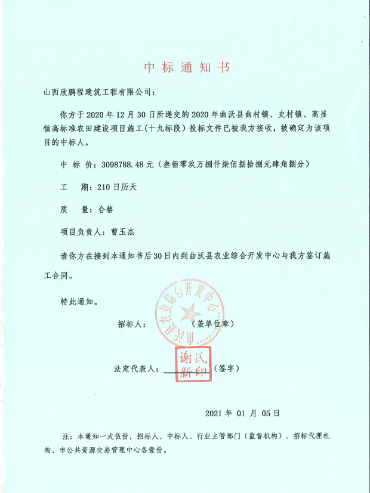
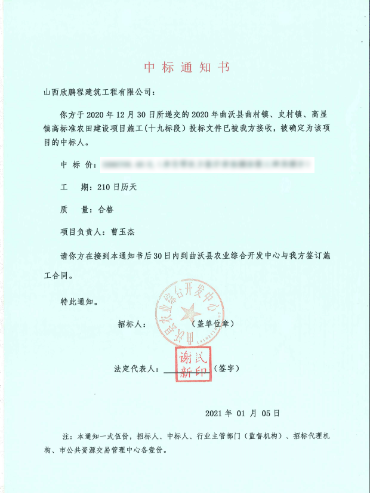
last

Changed region(s): [[0.2676, 0.3043, 0.8622, 0.3651]]

diff --git a/index.html b/index.html
@@ -16,7 +16,7 @@
             <ul class="clear" id="ul">
                 <li class="active">
                     <p>公司简介</p>
-                    <img src="img/line.png" alt="">
+                    <img src="img/line_active.png" alt="">
                 </li>
                 <li>
                     <p>证书展示</p>
@@ -100,7 +100,6 @@
                     </div>
                     <p class="time">工期：210日历天</p>
                     <p class="title">中标通知书</p>
-                    <p class="price">中标价￥3098788.48元</p>
                 </div>
                 <div class="fl">
                     <div class="box">
@@ -108,7 +107,6 @@
                     </div>
                     <p class="time">工期：365日历天</p>
                     <p class="title">中标通知书</p>
-                    <p class="price">中标价￥471455.36元</p>
                 </div>
                 <div class="fr">
                     <div class="box">
@@ -116,7 +114,6 @@
                     </div>
                     <p class="time">工期：三个月</p>
                     <p class="title">中标通知书</p>
-                    <p class="price">中标价￥1841000.00元</p>
                 </div>
             </div>
             <div class="clear mt50">
@@ -126,7 +123,6 @@
                     </div>
                     <p class="time">工期：一年</p>
                     <p class="title">中标通知书</p>
-                    <p class="price">中标价￥1924197.50元</p>
                 </div>
                 <div class="fl">
                     <div class="box">
@@ -142,7 +138,6 @@
                     </div>
                     <p class="time">工期：150天</p>
                     <p class="title">中标通知书</p>
-                    <p class="price">中标价￥1581600.45元</p>
                 </div>
             </div>
             <div class="clear mt50">
@@ -152,7 +147,6 @@
                     </div>
                     <p class="time">工期：50日历天</p>
                     <p class="title">中标通知书</p>
-                    <p class="price">中标价￥463900.00元</p>
                 </div>
                
                 <div class="fr">
@@ -161,7 +155,6 @@
                     </div>
                     <p class="time"></p>
                     <p class="title">中标通知书</p>
-                    <p class="price">中标价￥2492703.55元</p>
                 </div>
             </div>
         </div>

diff --git a/js/index.js b/js/index.js
@@ -9,7 +9,7 @@ for(var i=0;i<li.length;i++){
       main[num].classList.remove('active')
       li[num].classList.remove('active')
       li[num].innerHTML = '<p>'+arr[num]+'</p>'
-      li[i].innerHTML = '<p>'+arr[i]+'</p><img src="img/line.png">'
+      li[i].innerHTML = '<p>'+arr[i]+'</p><img src="img/line_active.png">'
       
       main[i].classList.add('active')
       li[i].classList.add('active')

diff --git a/css/style.less b/css/style.less
@@ -2,6 +2,9 @@
     padding: 0;
     margin: 0;
 }
+body{
+    background-image: url(../img/back.png);
+}
 .clear::after{
     content: '';
     display: block;
@@ -45,7 +48,7 @@ li{
                 width: 36px;
             }
             &.active{
-                color: #404040;
+                color: #1895D7;
             }
         }
     }

diff --git a/css/style.css b/css/style.css
@@ -2,6 +2,9 @@
   padding: 0;
   margin: 0;
 }
+body {
+  background-image: url(../img/back.png);
+}
 .clear::after {
   content: '';
   display: block;
@@ -48,7 +51,7 @@ li {
   width: 36px;
 }
 .head ul li.active {
-  color: #404040;
+  color: #1895D7;
 }
 .content {
   text-align: center;
